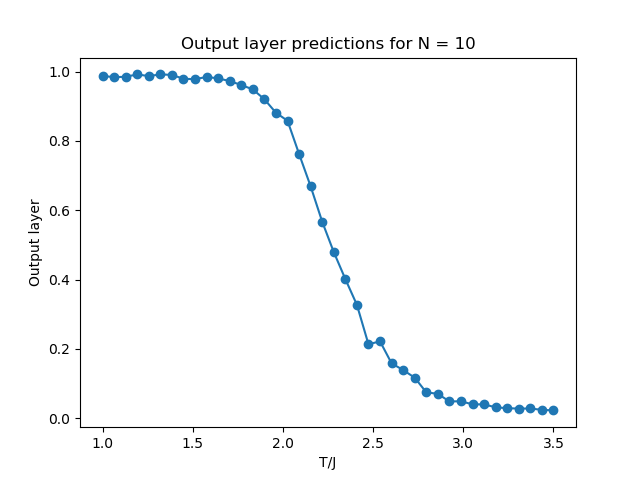
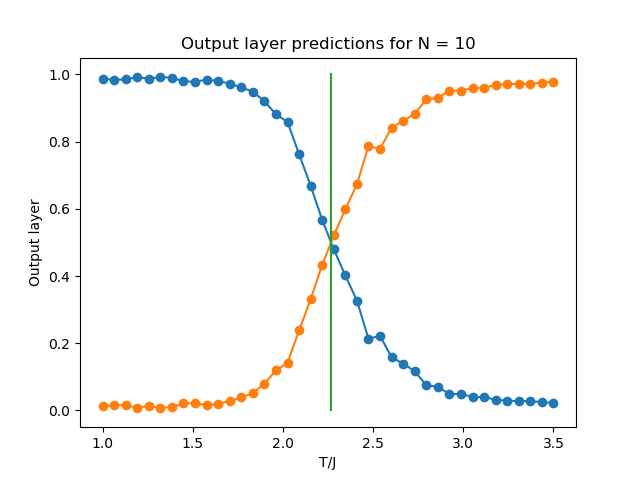
predict

diff --git a/code/predict_T_dnn.py b/code/predict_T_dnn.py
@@ -107,11 +107,11 @@ for index in range(len(T_list)):
   idx = np.argwhere(temp_test==T_list[index])[:,0]
   output_per_T[index]=np.mean(label_pred[idx])
 
-y = 2.268
+Tc = 2.268
 
 plt.plot(T_list,output_per_T,'o-')
 plt.plot(T_list,(1-output_per_T),'o-')
-plt.plot(T_list,y)
+plt.plot([Tc,Tc],[0,1])
 plt.xlabel('T/J')
 plt.ylabel('Output layer')
 plt.title('Output layer predictions for N = %i'%(N))
